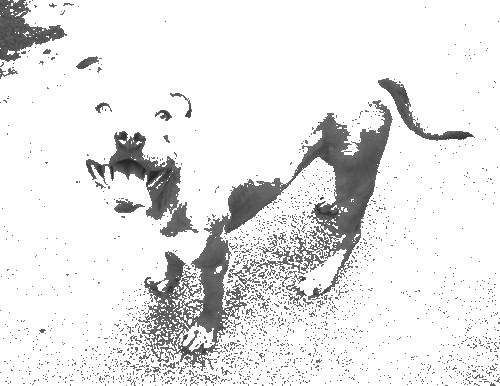
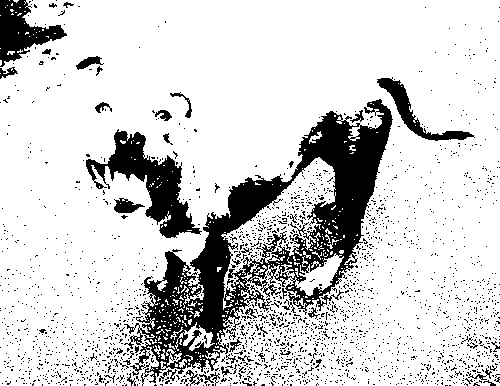
vizinhos

diff --git a/algoritmos_criados.py b/algoritmos_criados.py
@@ -19,11 +19,11 @@ def binarizacao(img, threshold):
                 linha.append(255)
         img_nova.append(linha)
 
-    img_nova = np.array(img_nova)
+    img_nova = np.array(img_nova, np.uint8)
 
-    cv2.imwrite('img_nova.jpg', img_nova)
+    #cv2.imwrite('img_nova.jpg', img_nova)
 
-    img_nova = cv2.imread('img_nova.jpg', 0)
+    #img_nova = cv2.imread('img_nova.jpg')
 
     return img_nova
 
@@ -50,3 +50,93 @@ def threshold (img,threshold):
     cv2.imwrite('img_nova.jpg', img_nova)
 
     img_nova = cv2.imread('img_nova.jpg', 0)
+    
+def vizinho (img_bi,i,j):
+    
+    
+    vizinho = {}
+    
+    tam = img_bi.shape
+
+    lin = tam[0]
+    col = tam[1]
+
+
+    if i == 0 and j == 0:
+        vizinho[1] = None
+        vizinho[2] = None
+        vizinho[3] = None
+        vizinho[4] = None
+        vizinho[5] = img_bi[i,j+1]
+        vizinho[6] = None
+        vizinho[7] = img_bi[i+1,j]
+        vizinho[8] = img_bi[i+1,j+1]
+
+    elif i == 0 and j == col:
+        vizinho[1] = None
+        vizinho[2] = None
+        vizinho[3] = None
+        vizinho[4] = img_bi[i,j-1]
+        vizinho[5] = None
+        vizinho[6] = img_bi[i+1,j-1]
+        vizinho[7] = img_bi[i+1,j]
+        vizinho[8] = None
+
+
+    if i == 0 :
+        vizinho[1] = None
+        vizinho[2] = None
+        vizinho[3] = None
+        vizinho[4] = img_bi[i,j-1]
+        vizinho[5] = img_bi[i,j+1]
+        vizinho[6] = img_bi[i+1,j-1]
+        vizinho[7] = img_bi[i+1,j]
+        vizinho[8] = img_bi[i+1,j+1]
+
+       
+    elif i == lin and j == 0 :
+        vizinho[1] = None
+        vizinho[2] = img_bi[i-1,j]
+        vizinho[3] = img_bi[i-1,j+1]
+        vizinho[4] = None
+        vizinho[5] = img_bi[i,j+1]
+        vizinho[6] = None
+        vizinho[7] = None
+        vizinho[8] = None
+
+        
+    elif i == lin and j == col:
+        vizinho[1] = img_bi[i-1,j-1]
+        vizinho[2] = img_bi[i-1,j]
+        vizinho[3] = None
+        vizinho[4] = img_bi[i,j-1]
+        vizinho[5] = None
+        vizinho[6] = None
+        vizinho[7] = None
+        vizinho[8] = None
+
+    elif j == col:
+        vizinho[1] = img_bi[i-1,j-1]
+        vizinho[2] = img_bi[i-1,j]
+        vizinho[3] = img_bi[i-1,j+1]
+        vizinho[4] = img_bi[i,j-1]
+        vizinho[5] = img_bi[i,j+1]
+        vizinho[6] = None
+        vizinho[7] = None
+        vizinho[8] = None
+        
+    else:    
+        vizinho[1] = img_bi[i-1,j-1]
+        vizinho[2] = img_bi[i-1,j]
+        vizinho[3] = img_bi[i-1,j+1]
+        vizinho[4] = img_bi[i,j-1]
+        vizinho[5] = img_bi[i,j+1]
+        vizinho[6] = img_bi[i+1,j-1]
+        vizinho[7] = img_bi[i+1,j]
+        vizinho[8] = img_bi[i+1,j+1]
+        
+    return vizinho
+    
+    
+    
+

diff --git a/cont_objetos.py b/cont_objetos.py
@@ -1,18 +1,34 @@
 import cv2
 import numpy as np
-import algoritmo_binarização as bn
+import algoritmos_criados as bn
 
 img = cv2.imread('training_set/dogs/dog.14.jpg',0)
+vizinho = {}
 
 tam = img.shape
 
 lin = tam[0]
 col = tam[1]
 
-img_bi = bn.binarizazao(img) # preto e branco
+img_bi = bn.binarizacao(img,114) # preto e branco
+#cv2.imshow('Figura',img_bi)
+
+#k = cv2.waitKey(0)
+
+vizinho = bn.vizinho(img_bi,356,66)
+
+
+i = 356
+j = 66
+
 
 for i in range(lin):
     for j in range(col):
         print()
         ### Não acabado
 
+for i in range(lin):
+    for j in range(col):
+        if img_bi[i,j] == 1: 
+            print("i = %d, j = %d" % (i,j))
+            break
